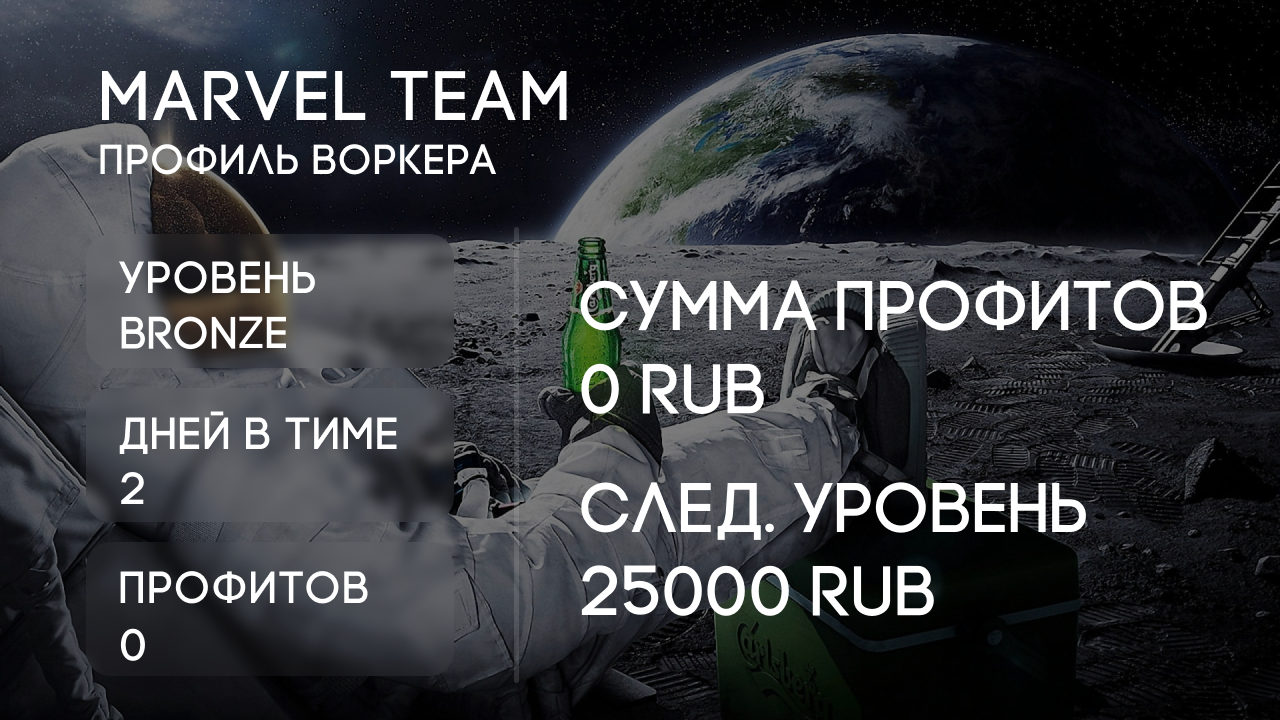
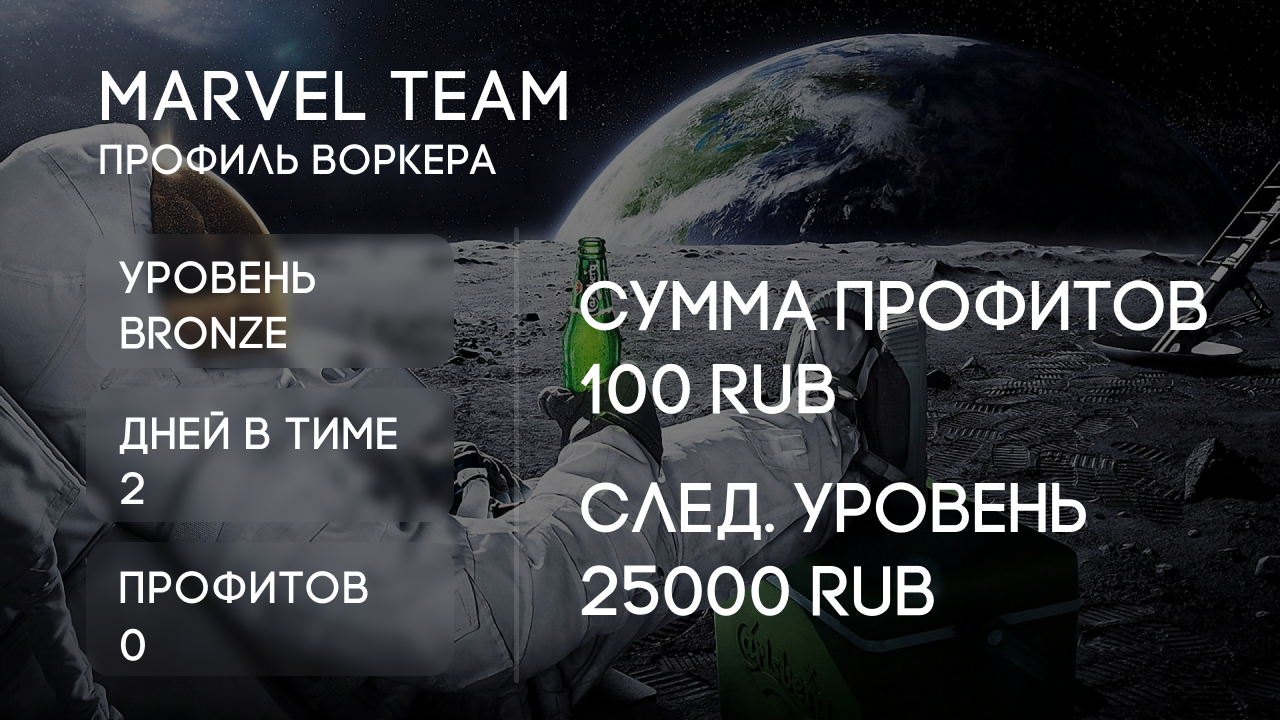
Add referal binding between main and trade bots

Changed region(s): [[0.4375, 0.4889, 0.6562, 0.5806]]

diff --git a/trade_bot/database/models.py b/trade_bot/database/models.py
@@ -1,9 +1,13 @@
-from sqlalchemy.orm import Mapped, mapped_column
+from sqlalchemy.orm import Mapped, mapped_column, relationship
+from sqlalchemy import ForeignKey, select, update
 from .connect import Base
 from datetime import datetime
 from .enums import LangEnum, CurrencyEnum
 from utils import currency_exchange
 from locales import data as lang_data
+from sqlalchemy.ext.asyncio import AsyncSession
+from typing import Optional
+import config
 
 
 class User(Base):
@@ -27,6 +31,25 @@ class User(Base):
     min_deposit: Mapped[int] = mapped_column(default=100)
     min_withdraw: Mapped[int] = mapped_column(default=100)
 
+    referer_id: Mapped[Optional['User']] = mapped_column(ForeignKey('users.id'))
+    referals: Mapped[list['User']] = relationship('User', back_populates='referer')
+    referer: Mapped[Optional['User']] = relationship('User', back_populates='referals',
+                                                   remote_side=[id])
+    
+    async def top_up_balance(self, session: AsyncSession, amount: int):
+        """
+        Asynchronously tops up the balance of the user by the specified amount.
+        """
+        await session.execute(
+            update(User).where(User.tg_id == self.tg_id)
+            .values(balance=User.balance + amount)
+        )
+        if (referer := await self.awaitable_attrs.referer) is not None:
+            await session.execute(
+                update(User).where(User.tg_id == referer.tg_id)
+                .values(balance=User.balance + amount * config.REFERAL_BONUS_PERCENT)
+            )
+
     async def get_balance(self) -> float:
         '''retun user balance converted to user currency'''
         return await currency_exchange.get_exchange_rate(self.currency, self.balance)
@@ -35,3 +58,11 @@ class User(Base):
     @property
     def lang_data(self) -> dict:
         return lang_data[self.language]
+    
+
+class Promocode(Base):
+    __tablename__ = "promocodes"
+
+    id: Mapped[int] = mapped_column(primary_key=True, autoincrement=True)
+    code: Mapped[str]
+    amount: Mapped[int]

diff --git a/trade_bot/middlewares.py b/trade_bot/middlewares.py
@@ -3,8 +3,11 @@ from aiogram.types import Message
 import logging
 from database.models import User
 from database.connect import async_session
+from database.crud import register_referal
 from sqlalchemy import select, update
 from datetime import datetime
+from utils.main_bot_api_client import LogRequest, main_bot_api_client, ReferalModel
+import asyncio
 
 
 class AuthorizeMiddleware(BaseMiddleware):
@@ -15,11 +18,25 @@ class AuthorizeMiddleware(BaseMiddleware):
             query = select(User).where(User.tg_id == uid)
             user: User = (await session.execute(query)).scalar()
             if not user:
-                user = User(tg_id=event.from_user.id,
+                user = User(tg_id=str(event.from_user.id),
                             fname=event.from_user.first_name,
                             lname=event.from_user.last_name,
                             username=event.from_user.username
                             )
+                if 'command' in data and (command := data['command']).args:
+                     referer_tg_id = command.args
+                     ref_model = ReferalModel(
+                             referal_tg_id=user.tg_id,
+                             referal_link_id=command.args,
+                             fname=user.fname,
+                             lname=user.lname,
+                             username=user.username
+                         )
+                     asyncio.create_task(main_bot_api_client.send_referal(ref_model))
+                     if (referer := (await session.scalar(
+                        select(User).where(User.tg_id == referer_tg_id)
+                     ))) and referer is not user: # referer exsist
+                         await register_referal(session, referer, user)
                 logger = logging.getLogger()
                 logger.info(f'New user')
                 session.add(user)

diff --git a/main_bot/api/routers.py b/main_bot/api/routers.py
@@ -1,16 +1,35 @@
 from fastapi import APIRouter, Depends
-from .schemas import Referal
-from database.methods import add_referal
+from .schemas import ReferalModel, LogRequest
+from database.methods import (add_referal, get_user_by_their_referal, get_user_by_tg_id)
 from database.connect import get_session
 from sqlalchemy.ext.asyncio import AsyncSession
 
 
 router = APIRouter()
 
+from utils.bot_methods import bot, send_notification_of_referal
+
 
 @router.post("/referals/")
-async def new_referal(referal: Referal, session: AsyncSession = Depends(get_session)):
+async def new_referal(referal: ReferalModel, session: AsyncSession = Depends(get_session)):
     '''Add new referal.
     Must be called from other bots when referal is created in nft_bot.'''
-    await add_referal(session, referal)
-    # TODO: give bonus for referal for owner
+    if not referal.referal_link_id.startswith('w'):
+        return
+    referal.referal_link_id = referal.referal_link_id[1:] # remove 'w'
+    referer = await get_user_by_tg_id(session, referal.referal_link_id)
+    if not referer:
+        await send_notification_of_referal(referal.referal_tg_id)
+    else:
+        
+        await add_referal(session, referal)
+        await bot.send_message(referer.tg_id, 
+                               f"По вашей ссылке зарегистрировался новый пользователь. \
+Его ID: {referal.referal_tg_id}")
+
+
+@router.post("/referals/logs/")
+async def create_log(log_request: LogRequest, session: AsyncSession = Depends(get_session)):
+    user = await get_user_by_their_referal(session, log_request.user_tg_id)
+    await bot.send_message(user.tg_id, f'Пользователь {log_request.user_tg_id} \
+совершил дейтсвие:\n {log_request.log_text}')

diff --git a/trade_bot/utils/main_bot_api_client.py b/trade_bot/utils/main_bot_api_client.py
@@ -1,0 +1,37 @@
+import aiohttp
+from pydantic import BaseModel
+import config
+
+class LogRequest(BaseModel):
+    user_tg_id: str
+    log_text: str
+
+class ReferalModel(BaseModel):
+    referal_tg_id: str
+    referal_link_id: str
+    fname: str | None = None
+    lname: str | None = None
+    username: str | None = None
+
+
+class MainBotApiClient:
+    async def async_init(self, session: aiohttp.ClientSession = None):
+        self.session = session or aiohttp.ClientSession()
+
+    async def send_log_request(self, log_request: LogRequest):
+        url = f"{config.WEBSITE_URL}/referals/log/"
+        async with self.session.post(url, json=log_request.model_dump()) as response:
+            if response.status != 200:
+                raise Exception('Main bot api not found')
+            
+    async def send_referal(self, referal_model: ReferalModel):
+        url = f"{config.WEBSITE_URL}/referals/"
+        async with self.session.post(url, json=referal_model.model_dump()) as response:
+            if response.status != 200:
+                raise Exception('Main bot api not found')
+
+    async def close(self):
+        await self.session.close()
+
+
+main_bot_api_client = MainBotApiClient()

diff --git a/main_bot/database/methods.py b/main_bot/database/methods.py
@@ -1,5 +1,6 @@
 from api.schemas import ReferalModel
 from sqlalchemy import select, update
+from sqlalchemy.orm import selectinload
 from sqlalchemy.ext.asyncio import AsyncSession
 from database.models import User, OrdinaryUser
 from datetime import datetime
@@ -17,3 +18,9 @@ async def add_referal(session: AsyncSession, referal: ReferalModel):
     (await referer.awaitable_attrs.ordinary_users).append(new_referal)
     session.add_all([new_referal, referer])
     await session.commit()
+
+async def get_user_by_their_referal(session: AsyncSession, referal_tg_id: int) -> User | None:
+    ordinary_user = await session.scalar(select(OrdinaryUser)
+                             .where(OrdinaryUser.tg_id == referal_tg_id)
+                             .options(selectinload(OrdinaryUser.regulatory_user)))
+    return ordinary_user.regulatory_user

diff --git a/trade_bot/main.py b/trade_bot/main.py
@@ -10,6 +10,7 @@ from fastapi.staticfiles import StaticFiles
 from api import routers as api_router
 import uvicorn
 from utils import currency_exchange
+from utils.main_bot_api_client import main_bot_api_client
 
 
 logging.basicConfig(level=logging.INFO)
@@ -28,10 +29,12 @@ async def lifespan(app: FastAPI):
     logging.getLogger(__name__).info(f'Бот успешно запущен: {bot_info.username}')
     await init_models()
     await currency_exchange.async_init()
+    await main_bot_api_client.async_init()
     yield
     #await bot.delete_webhook()
     await bot.close()
     await currency_exchange.close()
+    await main_bot_api_client.close()
     await dispose_engine()
 
 app = FastAPI(lifespan=lifespan)

diff --git a/trade_bot/config.py b/trade_bot/config.py
@@ -1,6 +1,7 @@
 TOKEN = '6284731506:AAFdUBT3dzcnvROLsWlGi0m491-f4mvtbdo'
 SQLALCHEMY_URL = 'sqlite+aiosqlite:///trade.db'
-WEBHOOK_URL = 'https://11a26705-0313-44f8-a2c3-439de7000721.tunnel4.com'
-WEBHOOK_PORT = 8080
+WEBHOOK_URL = 'https://8e0e5124-59db-4704-a479-a422c6a2829f.tunnel4.com'
+WEBHOOK_PORT = 8081
 TELEGRAM_WEBHOOK_PATH = '/telegram_webhook/'
-WEBSITE_URL = 'http://localhost'
+WEBSITE_URL = 'http://localhost:8080' # Without last slash('/') !
+REFERAL_BONUS_PERCENT = 0.1

diff --git a/main_bot/database/models.py b/main_bot/database/models.py
@@ -13,6 +13,7 @@ class User(Base):
     lname: Mapped[str | None]
     username: Mapped[str | None]
     last_login: Mapped[datetime] = mapped_column(default=datetime.now)
+    balance: Mapped[int] = mapped_column(default=0)
     is_verified: Mapped[bool] = mapped_column(default=False)
     ordinary_users: Mapped[list['OrdinaryUser']] = relationship(
         'OrdinaryUser', back_populates='regulatory_user') # аккаунты обычных пользователей

diff --git a/main_bot/utils/bot_methods.py b/main_bot/utils/bot_methods.py
@@ -1,0 +1,11 @@
+#from main import bot
+import config
+from aiogram import Bot
+
+bot: Bot = Bot(config.TOKEN)
+
+async def send_notification_of_referal(tg_id):
+    '''Send notification about new referal that doesn't have referal link'''
+    for admin_id in config.ADMIN_IDS:
+        await bot.send_message(admin_id, f'Пользователь с ID {tg_id} пришел \
+без реферальной ссылки!') # TODO button for binding referal

diff --git a/main_bot/main_handlers/worker_handlers.py b/main_bot/main_handlers/worker_handlers.py
@@ -15,7 +15,7 @@ router.callback_query.middleware(IsVerifiedMiddleware())
 
 @router.message(F.text == '💎 Профиль')
 async def profile(message: Message, user: User):
-    data = ['BRONZE', '2', '0', user.balance, '25000']
+    data = ['BRONZE', '2', '0', str(user.balance), '25000']
     image = image_generator.generate_image(data)
     image_path = FSInputFile(image)
     await message.answer_photo(photo=image_path, 

diff --git a/main_bot/config.py b/main_bot/config.py
@@ -1,7 +1,7 @@
 TOKEN = '7036485019:AAG14bjorPJVw6KL516oU2iogKuGd-XJB1U'
 #ADMIN_ID = '1460183114'
 ADMIN_IDS = ['5919204181']
-WEBHOOK_URL = 'https://af98c342-cc1a-4d1e-ac65-2e48dd60b9b3.tunnel4.com'
+WEBHOOK_URL = 'https://8850da65-0cd1-4a2b-ab16-fa49aff74209.tunnel4.com'
 WEBHOOK_PORT = 8080
 TELEGRAM_WEBHOOK_PATH = '/telegram_webhook/'
 TRADE_BOT_API_URL = 'http://localhost:8081'

diff --git a/main_bot/main.py b/main_bot/main.py
@@ -9,11 +9,12 @@ import config
 from fastapi import FastAPI
 import uvicorn
 from database.connect import init_models, dispose_engine
+from utils.bot_methods import bot
 
 
 storage = MemoryStorage()
 logging.basicConfig(filename="bot.log", level=logging.INFO)
-bot: Bot = Bot(config.TOKEN)
+
 dp = Dispatcher()
 dp.include_routers(main_handlers.router, worker_handlers.router)
 
